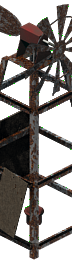
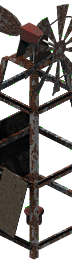
Fixed bug where pre-cut images of height 256 render incorrectly in FIFE. Fix in /utility/gfxsplit.py

diff --git a/PARPG/utilities/gfxsplit.py b/PARPG/utilities/gfxsplit.py
@@ -131,6 +131,10 @@ def splitImage(image, filename, data):
             # TODO: Handle integer moves (i.e. > 1 tile up down)
             print "Error: Can't handle integer tile moves yet"
             sys.exit(False)
+        # if the image is 256, then adjust
+        # bug in the FIFE OpenGL code
+        if(height == 256):
+            height += 1
         # build the new surface
         new_surface = pygame.Surface((TILE_WIDTH, height), pygame.SRCALPHA, 32)
         # now blit a strip of the image across
